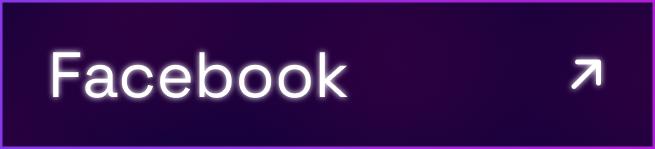
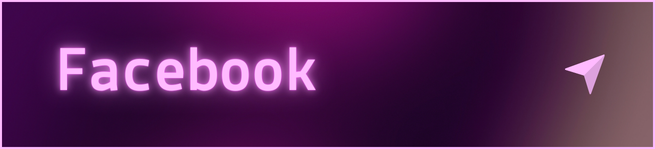
💡 update

diff --git a/README.md b/README.md
@@ -46,7 +46,7 @@ Driven by a love for clean code, continuous learning, and collaboration, I’m a
 <br/>
 <br/>
 
-**_<p align="center"> [<img height="55" src="images/lk.png">](https://www.linkedin.com/in/md-shakilhossain)[<img height="55" src="images/fb.png">](https://www.facebook.com/iamshakilhossain)[<img height="55" src="images/pt.png">](https://shakil-tawny.vercel.app) </p>_**
+**_<p align="center"> [<img height="55" src="images/Linkedin.png">](https://www.linkedin.com/in/md-shakilhossain)[<img height="55" src="images/facebook.png">](https://www.facebook.com/iamshakilhossain)[<img height="55" src="images/portfolio.png">](https://shakil-tawny.vercel.app) </p>_**
 
 <br/>
 <br/>
